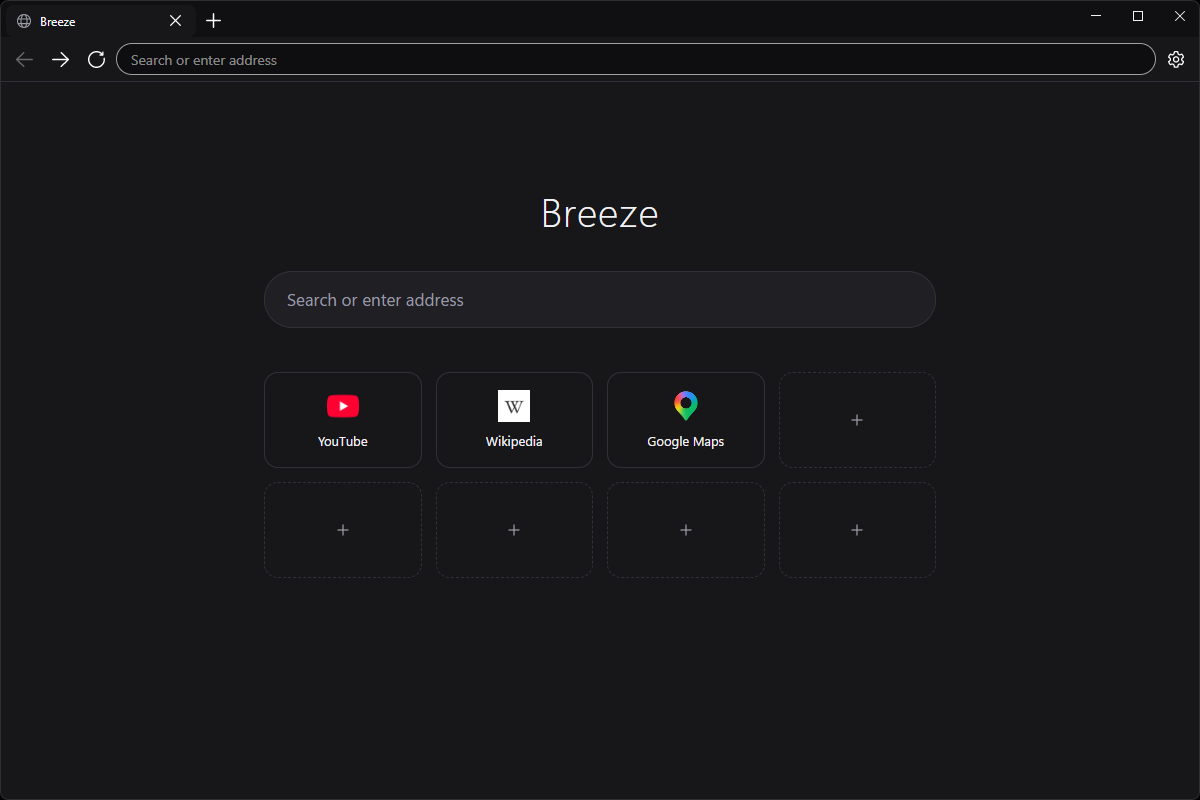
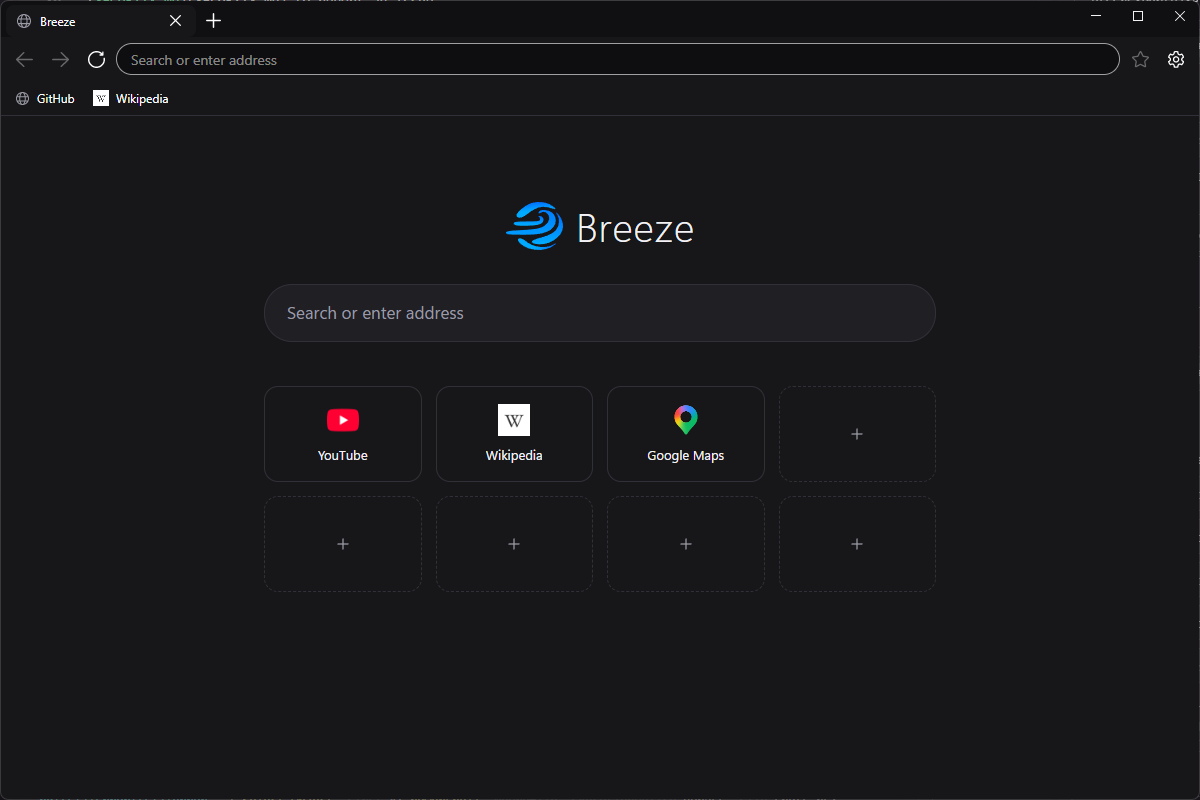
Release v0.2.0
Bumps the authoritative version in Breeze.csproj, which the About page reads from assembly metadata.

Brings the README up to date for bookmarks, the bookmark bar, keyboard shortcuts and the new branding, with fresh screenshots, and documents the bookmark store, favicon caching, shortcut dispatch and branding assets in the architecture notes.

diff --git a/docs/Architecture.md b/docs/Architecture.md
@@ -10,13 +10,16 @@ Avalonia and WebView2.
 ```
 Program.cs            entry point: shell identity, crash guards, AppBuilder
 App.axaml(.cs)        Fluent theme, merged resource dictionaries, creates the window and model
-Assets/               Palette.axaml, Icons.axaml, CaptionButtons.axaml, StartPage/ (bundled HTML)
+Assets/               Palette.axaml, Icons.axaml, CaptionButtons.axaml, Brand/ (logo and icon),
+                      StartPage/ (bundled HTML)
 Controls/             native interop and input: WebView, TabStrip, AddressBox, DragArea, MiddleClick
 Models/               data and the interfaces that cross the view/view model boundary
 Services/             process wide, UI agnostic concerns; static classes with cached state
-Utilities/            RelayCommand
-ViewModels/           MainWindowViewModel, TabViewModel, SettingsTabViewModel, SettingsViewModel
+Utilities/            RelayCommand, KeyboardState, WindowIcons
+ViewModels/           MainWindowViewModel, TabViewModel, SettingsTabViewModel, SettingsViewModel,
+                      BookmarkViewModel, ShortcutRowViewModel
 Views/                MainWindow, SettingsView
+tools/                build-brand.ps1, regenerates the logo bitmap and icon from the vector master
 ```
 
 **How the layers talk.** Avalonia's visual tree holds the chrome. `Controls/WebView` is a
@@ -37,7 +40,8 @@ Two directions to keep straight:
   `ITabReorder` on its `DataContext`.
 
 **Services** are static with lazily cached state, deliberately: there is one browser process, one
-settings file, one shortcut file, so a container would add ceremony without adding anything.
+settings file, one shortcut file and one bookmark file, so a container would add ceremony without
+adding anything.
 Every service that touches the disk or the network guards its own failures and reports through
 `Services/ErrorLog` (local, size capped). `Utilities/RelayCommand` also catches and logs, because
 Avalonia's Win32 dispatcher does not support a main loop exception handler — an exception escaping
@@ -98,17 +102,26 @@ strip items.
 **WebView ownership.** The content host is an `ItemsControl` over `HostedTabs` with an overlay
 `Panel` and two `DataTemplates` selected by view model type: `SettingsTabViewModel` renders
 `SettingsView`, `TabViewModel` renders `WebView`. A settings tab therefore never creates a
-WebView2 instance. Each `WebView` owns exactly one `CoreWebView2Controller` and the favicon
-`Bitmap` it decodes.
+WebView2 instance. Each `WebView` owns exactly one `CoreWebView2Controller`; favicon bitmaps are
+not owned by the view, see below.
 
 **Lifetime.** Selection drives `IsSelected`, bound to the `WebView`'s `IsVisible`. Avalonia *hides*
 the native child window rather than destroying it, so background tabs keep their engine, history
 and page state; the controller's own `IsVisible` is gated on `_painted && IsVisible`, which both
 suspends rendering for background tabs and keeps a new tab hidden until its first
 `DOMContentLoaded` (no white flash). Closing a tab removes it from both collections, which detaches
-the container, which calls `DestroyNativeControlCore`: the controller is closed, the favicon bitmap
-is released after the bindings have moved on. Closing the last tab raises `CloseRequested`, which
-`App` wires to `Window.Close()`.
+the container, which calls `DestroyNativeControlCore`: the controller is closed and the view drops
+its favicon reference. Closing the last tab raises `CloseRequested`, which `App` wires to
+`Window.Close()`.
+
+**Favicons.** A tab shows the icon the engine already fetched for the page, so nothing is
+downloaded for it. `CoreWebView2.GetFaviconAsync` hands over a forward only stream, which the
+bitmap decoder cannot read from, so `Services/FaviconImages` buffers the bytes before decoding and
+keeps the result keyed by favicon URL. The same site in several tabs therefore shares one bitmap
+and is never asked of the engine twice; a failure is cached as a failure, and the tab falls back to
+the globe glyph. Because those bitmaps are shared, nothing disposes them — dropping the reference
+is enough. `FaviconImages` also serves the icons on disk, keyed by file name, for the bookmark bar
+and the homepage.
 
 **Navigation routing.** Toolbar buttons bind to commands on `SelectedTab`. `TabViewModel` forwards
 them to its attached `IWebNavigator`, which is the `WebView`, which calls the engine. The address
@@ -130,11 +143,17 @@ added without a migration.
 
 **Propagation.** `SettingsViewModel` property setters mutate the settings object, call
 `SettingsStore.Save()` immediately, and raise `PropertyChanged`. There is no change notification
-service; consumers read `SettingsStore.Current` when they need a value.
+service; consumers read `SettingsStore.Current` when they need a value. The two settings the chrome
+must react to at once are pushed instead of observed: the settings page takes an optional callback
+from its tab and invokes it after saving, and the bookmark bar shortcut calls back into the open
+settings page the same way. A static settings event was avoided deliberately, since it would keep
+every settings page that has ever been opened alive.
 
 | Setting | When it takes effect |
 |---|---|
 | Theme | Immediately, through `Theming.Apply` |
+| Show bookmark bar | Immediately: the settings page reports back through a callback given to `SettingsTabViewModel`, and `MainWindowViewModel` raises `IsBookmarkBarVisible` |
+| Show Breeze logo on homepage | Immediately: `StartPageBridge.Refresh()` republishes settings to every open homepage |
 | Search engine | Immediately: `UrlResolver` reads it per resolution, and the start page receives it in the next bridge publish |
 | Download folder | Immediately: read by `Downloads.Resolve` at download time |
 | Ask where to save | Persisted only; the control is disabled until a save dialog exists |
@@ -155,12 +174,15 @@ Mutations run under a `SemaphoreSlim` so two open homepages cannot interleave a 
 fetch and a write. Each accepted change increments a `Revision`; the page echoes the revision it
 last rendered with every change, and a stale revision is refused and the page refreshed, which
 prevents an edit or delete landing on the wrong index. Favicons are discovered and cached by
-`Services/FaviconCache`, and files no shortcut references are pruned after each change.
+`Services/FaviconCache`, and files no store references are pruned after each change.
 
 **Bridge.** The page calls `window.chrome.webview.postMessage` with `{ type, revision, ... }`;
 `Services/StartPageBridge` handles `list`, `save`, `delete` and `move`, then publishes
-`{ type: "shortcuts", items, revision, searchUrl }` back with `PostWebMessageAsJson`. Every failure
-is caught, because the handler is `async void`.
+`{ type: "shortcuts", items, revision, searchUrl, showLogo }` back with `PostWebMessageAsJson`.
+Every failure is caught, because the handler is `async void`. The bridge also keeps the engines it
+is attached to, so `Refresh()` can republish to the homepages that are open when a setting changes;
+an engine whose tab has closed throws on first touch and is dropped, which is the only signal
+WebView2 offers.
 
 **Why only the homepage may talk to the host.** The bridge writes files and issues outbound HTTP
 requests on the user's behalf, so it is privileged. Two independent gates:
@@ -169,6 +191,62 @@ requests on the user's behalf, so it is privileged. Two independent gates:
    loaded, so remote pages cannot post at all.
 2. `StartPageBridge` compares the message source against the homepage origin by parsed scheme,
    host and port — not a string prefix.
+
+## Bookmarks
+
+`Services/BookmarkStore` keeps `bookmarks.json` (title, url, icon file name) with the same shape as
+the shortcut store: one cached list, mutations serialized behind a `SemaphoreSlim`, atomic writes,
+and a file that tolerates missing or unknown fields. Storage and validation the two stores have in
+common live in `Services/WebLinks`: the JSON options, the `http`/`https` URL check, the plain file
+name check for icon references, and the read and write helpers.
+
+**Icon pruning.** `FaviconCache` no longer takes the list of icons still in use from its caller.
+Every store that references icons registers a source through `Track` at startup, and `Prune`
+deletes only what no registered source claims. Both stores prune after each change, so a bookmark
+and a shortcut for the same site cannot delete each other's icon.
+
+**View side.** `MainWindowViewModel` rebuilds an `ObservableCollection<BookmarkViewModel>` on the
+store's `Changed` event, marshalled to the UI thread. `IsCurrentPageBookmarked` and `CanBookmark`
+are recomputed when the selected tab changes, when its `Address` changes, and when the store
+changes; `CanBookmark` excludes internal pages, blank tabs and the settings tab. The bar is an
+`ItemsControl` over a horizontal `VirtualizingStackPanel` inside a `ScrollViewer`, so a long list
+costs only the entries on screen.
+
+**Bar visibility.** Two rules, derived from the bookmark count and the stored setting rather than
+extra state: going from no bookmarks to one turns the bar on, and removing the last one turns it
+off. In between the setting belongs to the user, so a bar they hid stays hidden.
+
+## Keyboard shortcuts
+
+`Services/KeyboardShortcuts` is the only place a gesture is written down. It holds the catalog of
+`ShortcutDefinition` (id, label, default gesture), resolves the gesture in force — a parsed override
+from `settings.json`, otherwise the default, otherwise nothing — caches the result so no parsing
+happens while keys are pressed, and maps a key press to the registered handler. Adding a shortcut
+means adding a definition and registering an action.
+
+Key presses reach Breeze from two places and both resolve through that one lookup:
+
+- **Chrome focused.** `MainWindow.OnKeyDown`.
+- **Page focused.** The engine owns the keyboard, so `WebView` handles the controller's
+  `AcceleratorKeyPressed`, translates the virtual key and the live modifier state through
+  `Utilities/KeyboardState` (the event carries neither in Avalonia's terms), and posts the action to
+  the next dispatcher turn. That event is synchronous and blocks the browser process until it
+  returns, so the action must not run inside the callback.
+
+## Branding assets
+
+`Assets/Brand/logo.svg` is the master artwork. `logo.png` and `breeze.ico` are generated from it by
+`tools/build-brand.ps1`, which renders the vector with headless Edge, so no extra tooling is needed.
+The homepage loads the SVG directly; the native views draw the bitmap, since Avalonia has no SVG
+support without another package.
+
+The icon file carries nine sizes. 16, 20 and 24 px come from a simplified variant of the artwork,
+with sub pixel detail dropped and the shapes stroked, because faithful artwork at that size reads as
+a smudge. Everything from 32 px up is faithful. Frames below 256 px are stored as uncompressed DIBs:
+Windows reads PNG compressed frames of those sizes unreliably and silently substitutes a rescaled
+one. `ApplicationIcon` covers `Breeze.exe`, and `Utilities/WindowIcons` hands the file itself to the
+window with `WM_SETICON` once it has a handle, because Avalonia takes a single bitmap and rescales
+it for every size, which would discard the small frames.
 
 ## Security
 
@@ -182,9 +260,9 @@ The full review lives in the commit history; the current model in short:
   Breeze initiated it, so a remote page cannot put the privileged page on screen. Back, forward and
   reload of an already vetted entry still work.
 - **Host messaging restrictions.** Off by default, enabled only for the homepage (above).
-- **Shortcut validation.** URLs are restricted to `http` and `https` on save *and* on load, so a
-  tampered `shortcuts.json` cannot place a `javascript:` URL in a tile. Icon references must be
-  plain file names with no traversal.
+- **Shortcut and bookmark validation.** URLs are restricted to `http` and `https` on save *and* on
+  load, so a tampered `shortcuts.json` or `bookmarks.json` cannot place a `javascript:` URL in a
+  tile or on the bookmark bar. Icon references must be plain file names with no traversal.
 - **Download containment.** The server suggested name is sanitised and the target must resolve
   inside the configured folder, otherwise the download is cancelled.
 - **Favicon fetching.** `http`/`https` only; every URL and every redirect hop is validated, host

diff --git a/README.md b/README.md
@@ -19,11 +19,17 @@ until the first stable release.
 - Tabs: open, close, switch, and drag to reorder. Closing the last tab closes the window.
 - Address bar: URLs navigate, anything else searches with the selected engine.
 - Back, forward, reload and stop.
-- A bundled homepage served from disk with a search box and manually managed shortcuts
-  (create, edit, delete, drag to reorder), stored as readable JSON.
-- Favicons for shortcuts, discovered from the site and cached on disk.
-- A settings page hosted in a tab as native UI, covering startup page, theme, search engine,
-  the download folder, and clearing history, cookies and cache.
+- Favicons on tabs, taken from the page the engine has already loaded.
+- Bookmarks: a star in the toolbar adds and removes the current page, and a bookmark bar below
+  the toolbar opens them in the current tab, or in a new one with a middle click. Right-click an
+  entry to delete it. The bar appears with your first bookmark and hides again with your last,
+  and `Ctrl+Shift+B` toggles it.
+- A bundled homepage served from disk with the Breeze logo, a search box and manually managed
+  shortcuts (create, edit, delete, drag to reorder), stored as readable JSON.
+- Favicons for shortcuts and bookmarks, discovered from the site and cached on disk.
+- A settings page hosted in a tab as native UI, covering startup page, theme, the homepage logo,
+  bookmarks, search engine, the download folder, keyboard shortcuts, and clearing history,
+  cookies and cache.
 - Light and dark themes, applied to the Breeze UI, the homepage, and passed to sites through
   the engine's preferred colour scheme.
 
@@ -37,8 +43,12 @@ daily browser:
   and no handling of dangerous file types.
 - **Permission prompts.** Requests for camera, microphone, location, notifications and
   clipboard read are refused outright, with no way to allow them.
-- **History and bookmarks.** Browsing history is kept by the engine and can be cleared from
-  settings, but there is no history or bookmarks UI.
+- **History.** Browsing history is kept by the engine and can be cleared from settings, but there
+  is no history UI.
+- **Bookmark folders and a bookmark manager.** Bookmarks are one flat list, editable only through
+  the star and the bar's context menu; there is no renaming, reordering or import and export.
+- **Keyboard shortcut editing.** Settings lists the shortcuts and the file they are stored in
+  accepts overrides, but there is no UI to change them.
 - **Find in page, PDF controls, zoom controls, incognito mode, extensions, profiles, sync.**
 - **UI scale and compact mode** appear in settings but are disabled.
 
@@ -49,7 +59,8 @@ Breeze is built to keep browsing data on the machine. What that means concretely
 - Breeze itself contains no analytics, no crash reporting and no usage statistics. It sends
   nothing to any Breeze-operated service, because none exists.
 - All data lives in `%LOCALAPPDATA%\Breeze`: the WebView2 profile, cached favicons, your
-  shortcuts, your settings, and a local error log. Nothing is uploaded and there is no account.
+  shortcuts, your bookmarks, your settings, and a local error log. Nothing is uploaded and there
+  is no account.
 - Tracking prevention is set to strict, browser extensions are disabled, and password saving
   and autofill are off.
 - Edge reputation checking (SmartScreen), which sends visited URLs to a Microsoft service, is
@@ -75,8 +86,8 @@ the notable ones are worth stating plainly:
 - The homepage is the only origin allowed to talk to the host process, matched on parsed
   origin, and host messaging is switched off on every other page.
 - Remote pages cannot navigate a tab onto Breeze's internal pages.
-- Shortcut URLs are restricted to `http` and `https` on save and on load, and the homepage
-  carries a restrictive content security policy.
+- Shortcut and bookmark URLs are restricted to `http` and `https` on save and on load, and the
+  homepage carries a restrictive content security policy.
 - Downloads are confined to the configured folder with sanitised names.
 - Requests to open new windows become tabs, so nothing renders without a visible address bar.
 - Favicon discovery rejects non-web schemes and any destination, including redirect targets,
@@ -99,7 +110,8 @@ dotnet run --project Breeze
 
 ### Browsing
 
-- [ ] Bookmarks
+- [x] Bookmarks
+- [ ] Bookmark folders and a bookmark manager
 - [ ] History page
 - [ ] Downloads manager
 - [ ] Find in page
